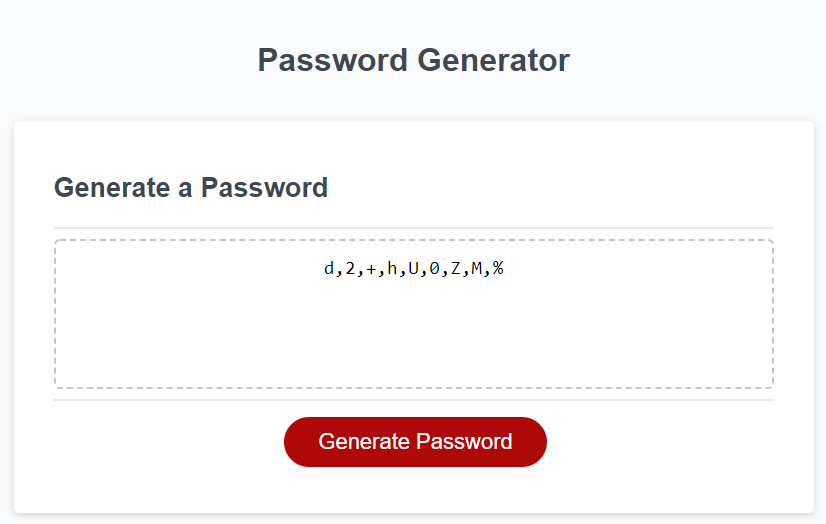
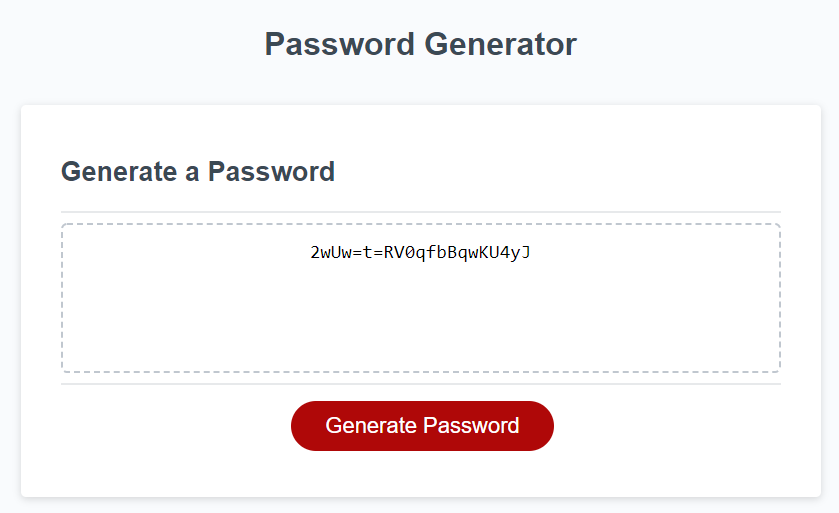
update final image

diff --git a/Assets/js/script.js b/Assets/js/script.js
@@ -57,7 +57,7 @@ function generatePassword() {
   for (let index = 0; index < length; index++) {
     password.push(passwordArray[Math.floor(Math.random()*passwordArray.length)])
   }
-  //remove commas in password array
+  //remove commas in password array using Join method
   password = password.join("");
 
   //clear array for next password
